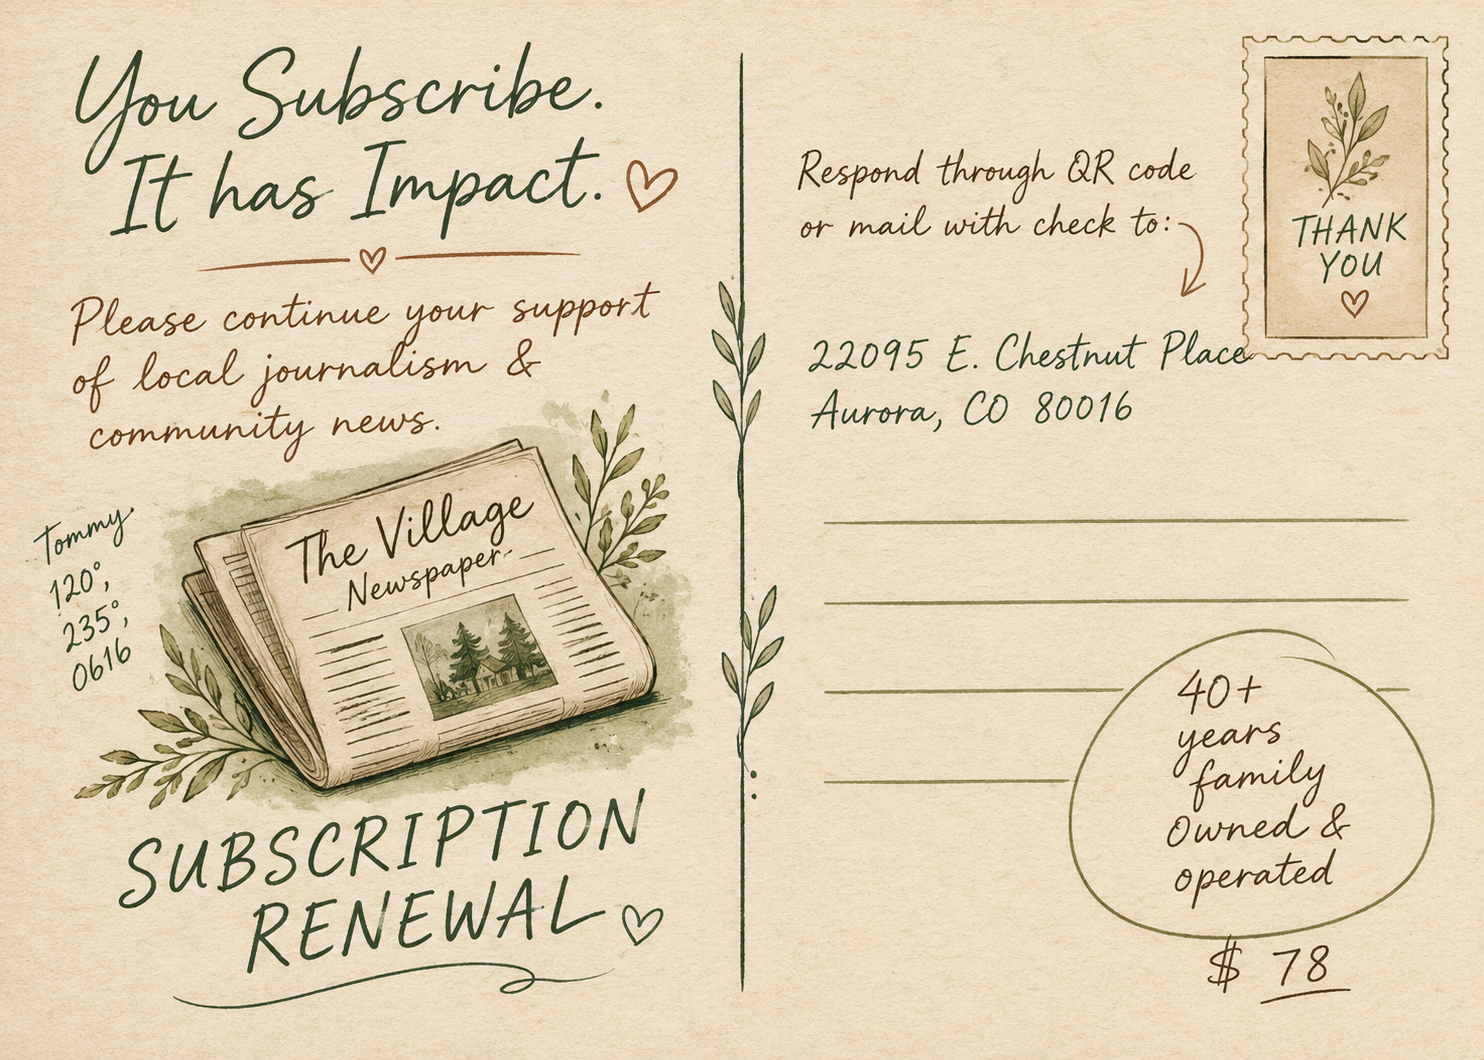
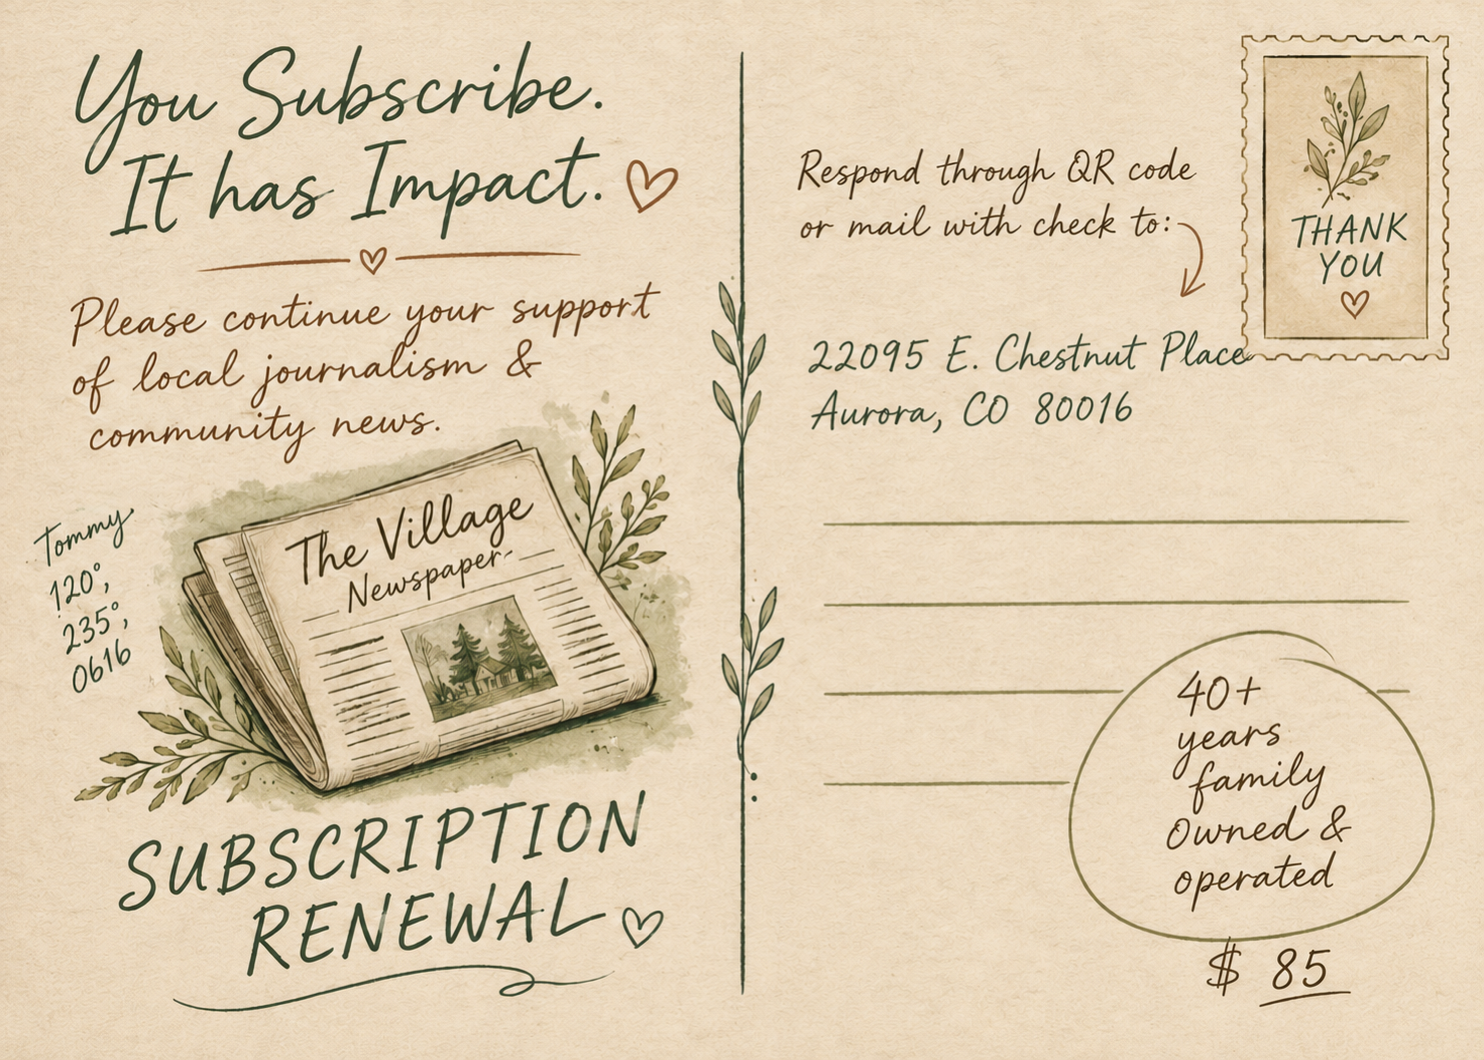
Update Villager annual renewal price to $85

diff --git a/villager-postcard-proofing/index.html b/villager-postcard-proofing/index.html
@@ -1469,7 +1469,7 @@
           <div class="mini-panel">
             <h3>QR language</h3>
             <p>Scan this code to upgrade your account online.</p>
-            <p>Renewal price: $78 for one year print.</p>
+            <p>Renewal price: $85 for one year print.</p>
           </div>
         </div>
       </article>
@@ -1520,7 +1520,7 @@
                 <div class="address-lines" aria-hidden="true">
                   <span></span><span></span><span></span>
                 </div>
-                <div class="price-seal" id="price-seal">40+<br>years of<br>family owned<br>& operated<br><strong>$78</strong></div>
+                <div class="price-seal" id="price-seal">40+<br>years of<br>family owned<br>& operated<br><strong>$85</strong></div>
                 <div class="v123-code">Version<br>123</div>
               </div>
             </section>
@@ -1883,7 +1883,7 @@
 - Primary art: basic renewal PNG
 - Subscribe URL: https://www.thevillager.today/subscribe
 - QR code: generated for subscribe URL
-- Price: $78 one-year print renewal
+- Price: $85 one-year print renewal
 
 Requested changes:</textarea>
           <div class="proof-actions">
@@ -2176,7 +2176,7 @@ Please include setup fees, postage estimate, proof timing, and ship/mail date.</
 - Subscribe URL: ${subscribeUrl}
 - QR code: generated for subscribe URL
 - Mail/check address: ${mailCheckAddress}
-- Price: $78 one-year print renewal
+- Price: $85 one-year print renewal
 
 Requested changes:`;
     }

diff --git a/subscribe-villager/index.html b/subscribe-villager/index.html
@@ -434,7 +434,7 @@
         </a>
         <div class="body">
           <h3>Basic Renewal</h3>
-          <p>Primary soft-paper renewal art with handwritten style, QR/mail response language, and $78 renewal cue.</p>
+          <p>Primary soft-paper renewal art with handwritten style, QR/mail response language, and $85 renewal cue.</p>
           <div class="asset-facts">
             <span>Inline asset data</span>
             <code>File: /villager-postcard-proofing/assets/basic-renewal-primary.png</code>
